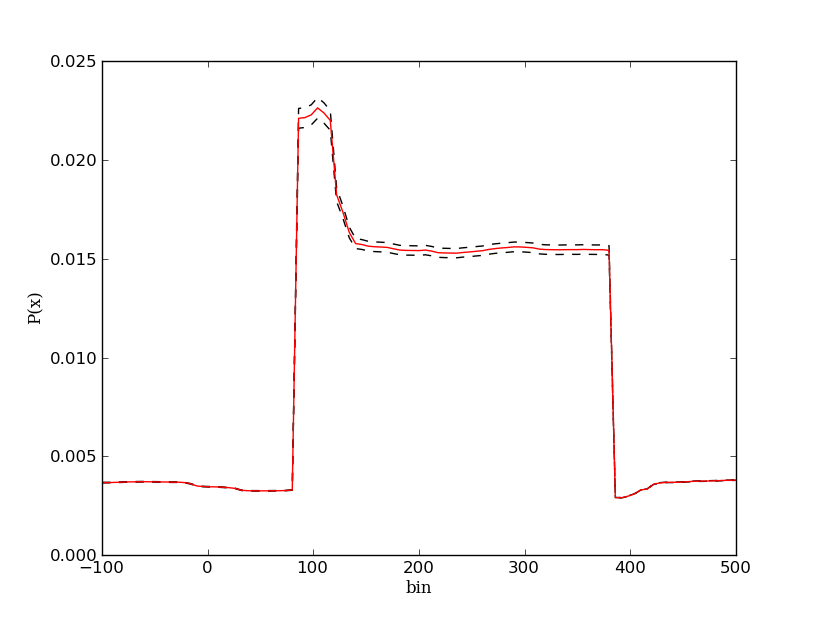
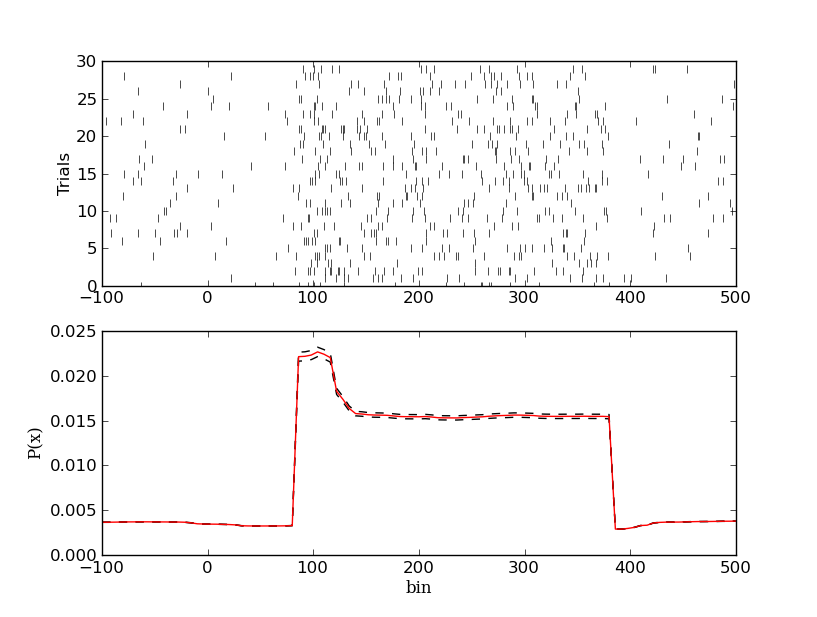
2010/09/29-3

diff --git a/bayesian-binning/bayesian-binning.py b/bayesian-binning/bayesian-binning.py
@@ -44,7 +44,19 @@ def usage():
 # plotting
 # ------------------------------------------------------------------------------
 
-def plotbin(x, result):
+def plotspikes(ax, x, timings):
+    """Plot trials of spike trains."""
+    X = []
+    Y = []
+    for i in range(0, len(timings)):
+        for val in timings[i]:
+            X.append(val)
+            Y.append(i)
+    ax.set_xlim(x[0],x[-1])
+    ax.set_ylabel('Trials')
+    ax.plot(X, Y, 'k|')
+
+def plotbin(ax, x, result):
     """Plot the binning result."""
     font = {'family'     : 'serif',
             'color'      : 'k',
@@ -54,12 +66,12 @@ def plotbin(x, result):
     N = len(result[0])
     if x==None:
         x = np.arange(0, N, 1)
-    plot(x, [a + b for a, b in zip(result[0], result[1])], 'k--')
-    plot(x, [a - b for a, b in zip(result[0], result[1])], 'k--')
-    plot(x, result[0], 'r')
-    xlabel('bin', font)
-    ylabel('P(x)', font)
-    show()
+    ax.set_xlim(x[0],x[-1])
+    ax.plot(x, [a + b for a, b in zip(result[0], result[1])], 'k--')
+    ax.plot(x, [a - b for a, b in zip(result[0], result[1])], 'k--')
+    ax.plot(x, result[0], 'r')
+    ax.set_xlabel('bin', font)
+    ax.set_ylabel('P(x)', font)
 
 # binning
 # ------------------------------------------------------------------------------
@@ -99,7 +111,10 @@ def parseConfig(file):
         prior       = list(np.repeat(1, N))
         #prior       = list(np.repeat(0, N))
         #prior[1]    = 1
-        plotbin(None, bin(counts, trials, prior))
+        fig = figure()
+        ax1 = fig.add_subplot(1,2,1)
+        plotbin(ax1, None, bin(counts, trials, prior))
+        show()
     if config.has_section('Trials'):
         binsize     = config.getint('Trials', 'binsize')
         timings_str = config.get   ('Trials', 'timings')
@@ -112,7 +127,12 @@ def parseConfig(file):
         trials      = len(timings)
         N           = len(counts)
         prior       = list(np.repeat(1, N))
-        plotbin(x, bin(counts, trials, prior))
+        fig = figure()
+        ax1 = fig.add_subplot(2,1,1)
+        ax2 = fig.add_subplot(2,1,2)
+        plotspikes(ax1, x, timings)
+        plotbin(ax2, x, bin(counts, trials, prior))
+        show()
 
 # main
 # ------------------------------------------------------------------------------
